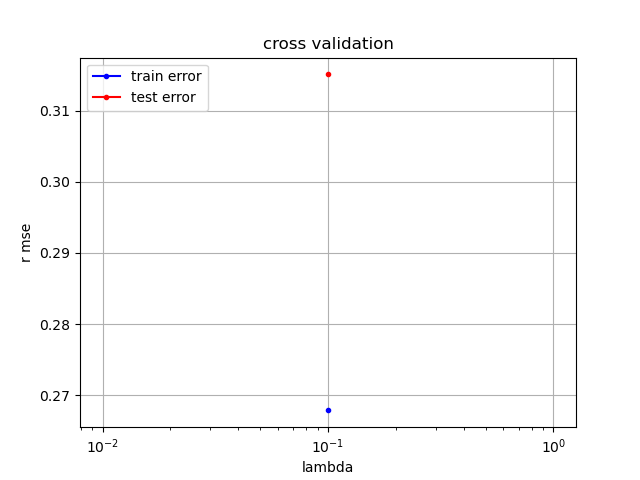
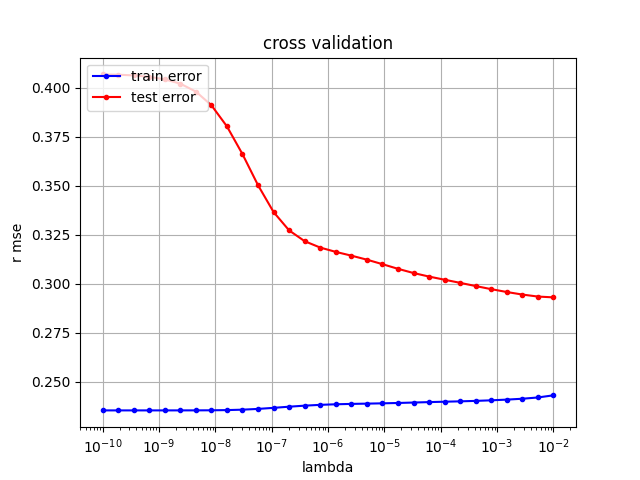
refacor: solve ex4, still remaining

diff --git a/labs/ex04/template/ridge_regression.py b/labs/ex04/template/ridge_regression.py
@@ -23,8 +23,5 @@ def ridge_regression(y, tx, lambda_):
     >>> ridge_regression(np.array([0.1,0.2]), np.array([[2.3, 3.2], [1., 0.1]]), 1)
     array([0.03947092, 0.00319628])
     """
-    # ***************************************************
-    # COPY YOUR CODE FROM EX03 HERE
-    # ridge regression: TODO
-    # ***************************************************
-    raise NotImplementedError
+    # return np.linalg.inv(tx.T@tx + (lambda_*2*tx.shape[0])*np.eye(tx.shape[1]))@tx.T@y
+    return np.linalg.solve(tx.T@tx + (lambda_*2*tx.shape[0])*np.eye(tx.shape[1]), tx.T@y)

diff --git a/labs/ex04/template/least_squares.py b/labs/ex04/template/least_squares.py
@@ -22,9 +22,7 @@ def least_squares(y, tx):
     >>> least_squares(np.array([0.1,0.2]), np.array([[2.3, 3.2], [1., 0.1]]))
     (array([ 0.21212121, -0.12121212]), 8.666684749742561e-33)
     """
-    # ***************************************************
-    # COPY YOUR CODE FROM EX03 HERE
-    # least squares: TODO
-    # returns optimal weights, MSE
-    # ***************************************************
-    raise NotImplementedError
+    w = np.linalg.solve(tx.T@tx, tx.T@y)
+    e = (y - tx@w)
+    mse = ((e.T@e)/(2*y.shape[0])).item()
+    return w, mse

diff --git a/labs/ex04/template/build_polynomial.py b/labs/ex04/template/build_polynomial.py
@@ -18,10 +18,5 @@ def build_poly(x, degree):
     array([[1.  , 0.  , 0.  ],
            [1.  , 1.5 , 2.25]])
     """
-    # ***************************************************
-    # COPY YOUR CODE FROM EX03 HERE
-    # polynomial basis function: TODO
-    # this function should return the matrix formed
-    # by applying the polynomial basis to the input data
-    # ***************************************************
-    raise NotImplementedError
+    poly = np.array([x**i for i in range(degree+1)]).T
+    return poly
